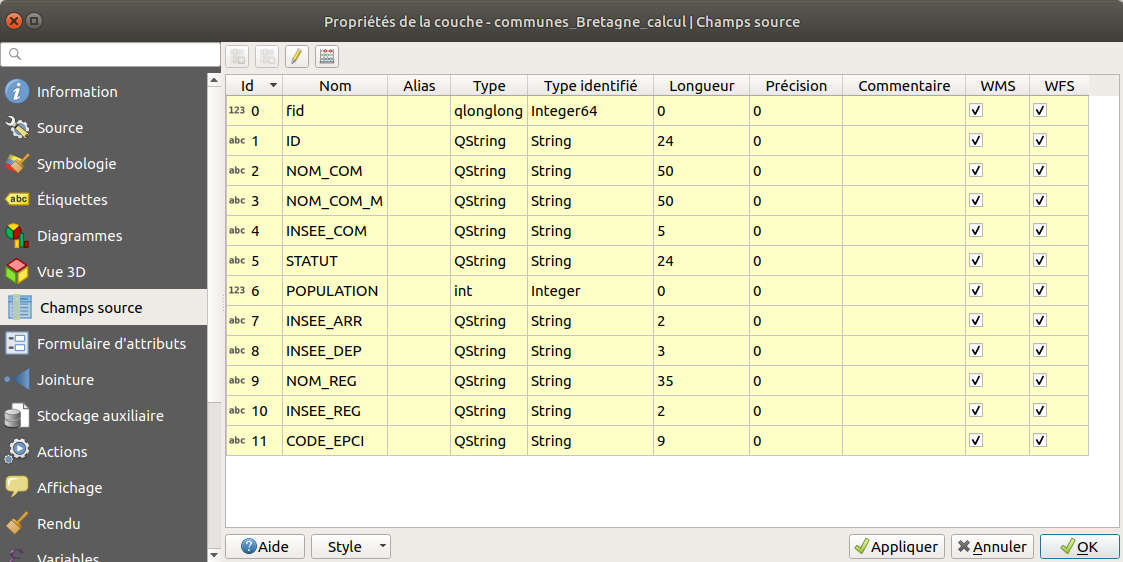
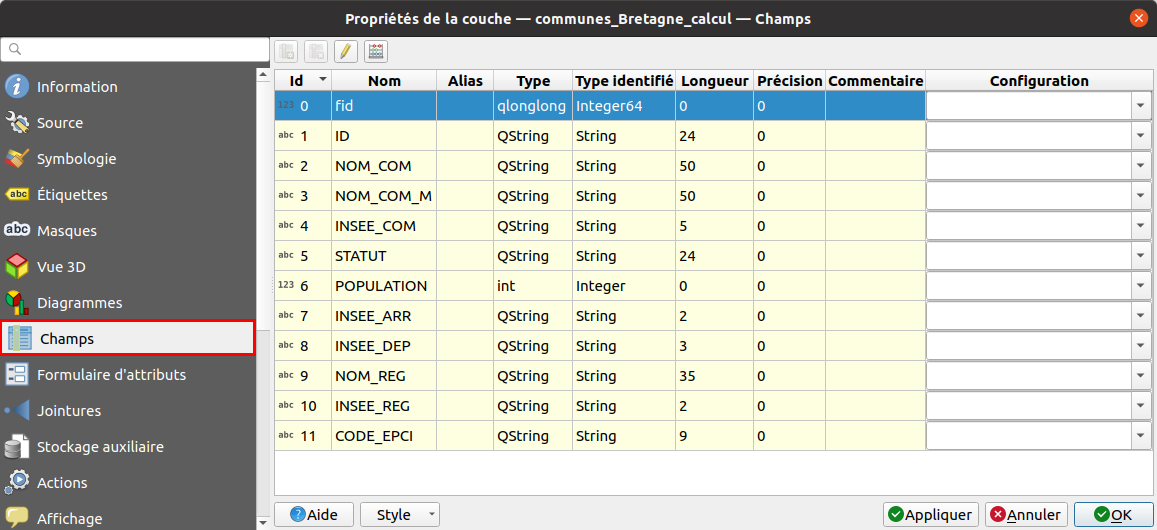
partie 7 !

diff --git a/07_02_calculer.php b/07_02_calculer.php
@@ -52,12 +52,13 @@
 				<p><em class="numero">1</em> : Si cette case est cochée, seules les lignes sélectionnées seront modifiées (en grisé si aucune entité n'est sélectionnée).</p>
 				<p><em class="numero">2</em> : Cocher cette case pour créer un nouveau champ.</p>
 				<p><em class="numero">3</em> : Cocher cette case pour mettre à jour un champ existant.</p>
-				<p><em class="numero">4</em> : Les opérateurs les plus couramment utilisés.</p>
-				<p><em class="numero">5</em> : Expression servant à calculer les valeurs du champ.</p>
+				<p><em class="numero">4</em> : Expression servant à calculer les valeurs du champ.</p>
+				<p><em class="numero">5</em> : Les opérateurs les plus couramment utilisés.</p>
 				<p><em class="numero">6</em> : Liste des opérateurs et fonctions disponibles pour le calcul de champ.</p>
 				<p><em class="numero">7</em> : Si un opérateur ou une fonction est choisi en 6, l'aide correspondante apparaît dans cette partie.</p>
-				<p><em class="numero">8</em> : Ici, une fois l'expression remplie, vous pourrez voir un aperçu du résultat du calcul.</p>
-				<p>Comme vous avez pu le constater, le mode de fonctionnement de la calculatrice de champ est assez similaire à celui d'une <a href="06_01_req_attrib.php">requête attributaire</a>. </p>
+				<p><em class="numero">8</em> : Ici, une fois l'expression remplie, vous pourrez voir un aperçu du résultat du calcul pour l'entité choisie.</p>
+				<p>L'onglet <b>Editeur de fonction</b>, derrière l'onglet <b>Expression</b>, permet le calcul de champs à l'aide du langage Python : cette possibilité ne sera pas abordée ici.</p>
+				<p>Comme vous pouvez le constater, le mode de fonctionnement de la calculatrice de champ est assez similaire à celui d'une <a href="06_01_req_attrib.php">requête attributaire</a>. </p>
 				<p class="note">Il n'est pas obligatoire de passer en mode édition pour utiliser la calculatrice de champ ; dans ce cas, cliquer sur OK dans la calculatrice enclenche le mode édition.</p>
 				
 			
@@ -86,7 +87,7 @@
 						
 				<h4><a class="titre" id="VII22b">Vérification</a></h4>
 					
-					<p>Parfois, il peut arriver de se mélanger dans les unités... Il peut être utile de vérifier les calculs de géométrie. Nous allons voir 2 méthodes pour le faire; cela vous indique aussi comment connaître par exemple la surface d'un polygone donné sans forcément créer et calculer un champ.</p>
+					<p>Parfois, il peut arriver de se mélanger dans les unités... Il peut être utile de vérifier les calculs de géométrie. Nous allons voir 2 méthodes pour le faire&nbsp;; cela vous indique aussi comment connaître par exemple la surface d'un polygone donné sans forcément créer et calculer un champ.</p>
 					<p>La première méthode consiste à <b>mesurer &#171;&nbsp;à la main&nbsp;&#187; la surface d'une commune et à comparer le résultat avec celui du champ SURF_KM2</b>.</p>
 					<div class="manip">
 						<p><img class="iconemid" src="illustrations/tous/7_2_mesure_icone.png" alt="icône mesurer une aire" >Vous pouvez vérifier votre calcul au moyen de l'outil <b>Mesurer une aire</b> : </p>
@@ -209,12 +210,7 @@
                     	<div class="question">
                     		<input type="checkbox" id="faq-3">
                     		<p><label for="faq-3">Pouvez-vous écrire dans son entier l'expression utilisée pour écrire le nom du département en fonction de son code&nbsp;?</label></p>
-                    		<p class="reponse">L'expression sera la suivante : <b>CASE
-WHEN  "INSEE_DEP" = '29' THEN 'Finistère'
-WHEN  "INSEE_DEP" = '22' THEN 'Côtes-d\'Armor'
-WHEN  "INSEE_DEP" = '35' THEN 'Ille-et-Vilaine'
-WHEN  "INSEE_DEP" = '56' THEN 'Morbihan' 
-END</b></p>
+                    		<p class="reponse">CASE<br>WHEN  "INSEE_DEP" = '29' THEN 'Finistère'<br>WHEN  "INSEE_DEP" = '22' THEN 'Côtes-d\'Armor'<br>WHEN  "INSEE_DEP" = '35' THEN 'Ille-et-Vilaine'<br>WHEN  "INSEE_DEP" = '56' THEN 'Morbihan'<br>END</p>
                             <p class="reponse">Attention, il y a un piège&nbsp;! Pour que l'apostrophe de &#171; Côtes-d'Armor &#187; ne soit pas considéré comme celui de fin de la chaîne de caractères, il faut &#171; l'échapper &#187; avec le caractère antislash <b>\</b>.</p>
                     	</div>
                     	<p>Au final, la calculatrice doit être paramétrée comme suit :</p>

diff --git a/07_01_creation_suppression.php b/07_01_creation_suppression.php
@@ -32,13 +32,13 @@
 			
 				<div class="manip">
 					<p>Ouvrez un nouveau projet QGIS, ajoutez la couche <em class="data"><a href="donnees/TutoQGIS_07_Champs.zip">communes_Bretagne_calcul</a></em>.</p>
-					<p>Pour voir les champs de la table attributaire de cette couche, vous pouvez bien sûr ouvrir la table attributaire, mais vous pouvez également ouvrir les propriétés de la couche, rubrique <b>Champs source</b> :</p>
+					<p>Pour voir les champs de la table attributaire de cette couche, vous pouvez bien sûr ouvrir la table attributaire, mais vous pouvez également ouvrir les propriétés de la couche, rubrique <b>Champs</b> :</p>
 					<figure>
 						<a href="illustrations/tous/7_1_proprietes_champs.png" >
 							<img src="illustrations/tous/7_1_proprietes_champs.png" alt="fenêtre des propriétés de la couche, rubrique champs" width="600" >
 						</a>
 					</figure>
-					<p>Cette fenêtre vous permet de voir d'un seul coup d'œil la liste des champs, leur type : <b>String</b> (texte), <b>Integer</b> (nombre entier) ou <b>Real</b> (nombre décimal), le <a href="05_03_donnees_attrib.php#V32">mode d'édition</a> ...</p>
+					<p>Cette fenêtre vous permet de voir d'un seul coup d'œil la liste des champs, leur nom et leur type&nbsp;: <b>String</b> (texte), <b>Integer</b> (nombre entier) ou <b>Real</b> (nombre décimal)...</p>
 				</div>		
 			
 			
@@ -50,7 +50,8 @@
     				<p>Nous allons ajouter un champs à la couche <em class="data">communes_Bretagne_calcul</em>, nommé <b>NOM_DEPT</b>, destiné à contenir le nom du département de la commune.</p>
     				
     				<div class="manip">
-    					<p>Ouvrez la table attributaire de la couche <em class="data">communes_Bretagne_calcul</em>. <a href="05_02_points.php#V21">Passez en mode édition</a> pour cette couche.</p>
+    					<p>Ouvrez la table attributaire de la couche <em class="data">communes_Bretagne_calcul</em>.</p>
+    					<p><img class="icone" src="illustrations/tous/7_1_edition_icone.png" alt="icône passer en mode édition" ><a href="05_02_points.php#V21">Passez en mode édition</a> pour cette couche.</p>
     					<p>Cliquez sur l'icône <b>Ajouter un champ</b> en haut de la table attributaire :</p>
     					<figure>
     						<img src="illustrations/tous/7_1_BO_table_ajout.png" alt="barre d'outils de la table attributaire, icône d'ajout de champ entourée en rouge" width="600" >
